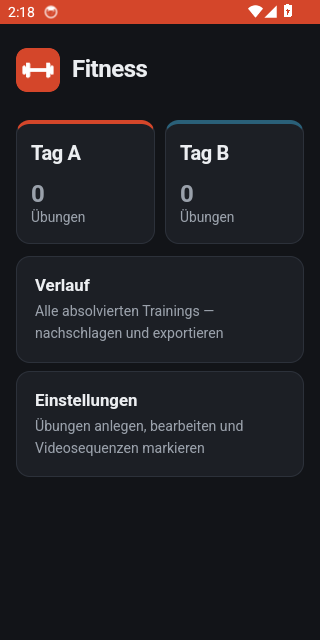
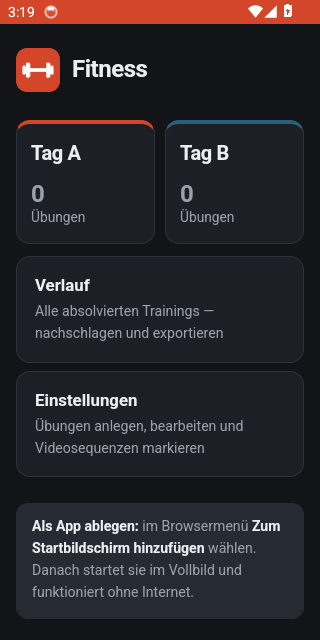
docs: Belege Runde 1

Changed region(s): [[0.0312, 0.7812, 0.9688, 0.9688], [0.0938, 0.0, 0.125, 0.0312], [0.0312, 0.0, 0.0625, 0.0312]]

diff --git a/docs/fabrik/android-apk.md b/docs/fabrik/android-apk.md
@@ -51,13 +51,22 @@ Android SDK installiert sind.
 - [vorher-1-keine-apk.txt](beweise/android-apk/vorher-1-keine-apk.txt) – kein Android-Projekt,
   kein Build, Export nur als Browser-Download
 
-- Emulator-Lauf auf GitHub Actions (Android 14), Run 35739103515 – [protokoll.txt](beweise/android-apk/emulator/protokoll.txt):
+- Emulator-Lauf auf GitHub Actions (Android 14, Test-APK `de.lemaproyal.fitness.test`), Run 35746106408 –
+  [protokoll.txt](beweise/android-apk/emulator/protokoll.txt), jede Prüfung als `OK:`-Zeile:
   - [nachher-1 Start](beweise/android-apk/emulator/1-start.png) – APK zeigt die App von GitHub Pages
-  - [nachher-2 Export](beweise/android-apk/emulator/2-export-meldung.png) – Meldung „In Downloads gespeichert“, Datei in `/sdcard/Download` mit korrektem Inhalt
-  - [nachher-3 Dialog](beweise/android-apk/emulator/3-dialog.png) – `confirm()` mit Titel „Fitness“, Abbrechen liefert `false`
-  - [nachher-4 YouTube](beweise/android-apk/emulator/4-youtube.png) – eingebetteter Player lädt
-  - [nachher-5 Dateiauswahl](beweise/android-apk/emulator/5-dateiauswahl.png) – Import öffnet die Android-Dateiauswahl
-  - [nachher-6 Chrome gelöscht](beweise/android-apk/emulator/6-nach-chrome-loeschen.png) – nach `pm clear com.android.chrome` und Neustart ist die gespeicherte Übung noch da; Datenbank liegt in `app_webview/Default/IndexedDB` der App
+  - Brücke: Antwort `{"id":7,"ok":true,"name":"fitness-emulator-test.json"}`, Datei in `/sdcard/Download` mit korrektem Inhalt
+  - [nachher-2 Dialog](beweise/android-apk/emulator/2-dialog.png) – `confirm()` mit App-Namen als Titel, OK liefert `true`
+  - [nachher-3 YouTube](beweise/android-apk/emulator/3-youtube.png) – eingebetteter Player lädt; im YouTube-iframe ist `FitnessAndroid` `undefined`
+  - [nachher-4 Dateiauswahl](beweise/android-apk/emulator/4-dateiauswahl.png) – Import öffnet die Android-Dateiauswahl
+  - Hintergrundwechsel: Seite erhält `hidden`, dann `visible`, bleibt auf derselben Seite
+  - [nachher-6 Chrome gelöscht](beweise/android-apk/emulator/6-nach-chrome-loeschen.png) – nach `pm clear com.android.chrome`
+    und Neustart ist die gespeicherte Übung noch da (Beweis ist die `OK:`-Zeile; die Startseite zählt Übungen ohne Trainingstag nicht)
+  - **Noch nicht im Emulator belegbar, weil die APK die Live-Seite (main) lädt:** Export-Knopf der Web-App
+    und ausgeblendeter Installationshinweis. Der Test prüft beides automatisch, sobald der neue Web-Code live ist
+    (vorher meldet er „übersprungen“) – nach dem Merge läuft der Workflow auf main und belegt es.
+- Stabilität: Zwei Läufe scheiterten, weil der allererste Seitenaufruf im frisch gestarteten Emulator
+  fehlschlug (Offline-Seite, obwohl Android „online“ meldete). Die App versucht es seitdem einmal still
+  erneut, bevor sie die Offline-Seite zeigt; die Offline-Seite nennt den Fehlergrund.
 - Web-Version lokal (localhost, Browser-Pane): Export im Browser weiter als Blob-Download
   (`fitness-sicherung-2026-09-22.json`), mit `window.FitnessAndroid` stattdessen über die Brücke
   (verwaltung.html und verlauf.html); Installationshinweis im Browser weiter sichtbar, in der APK
